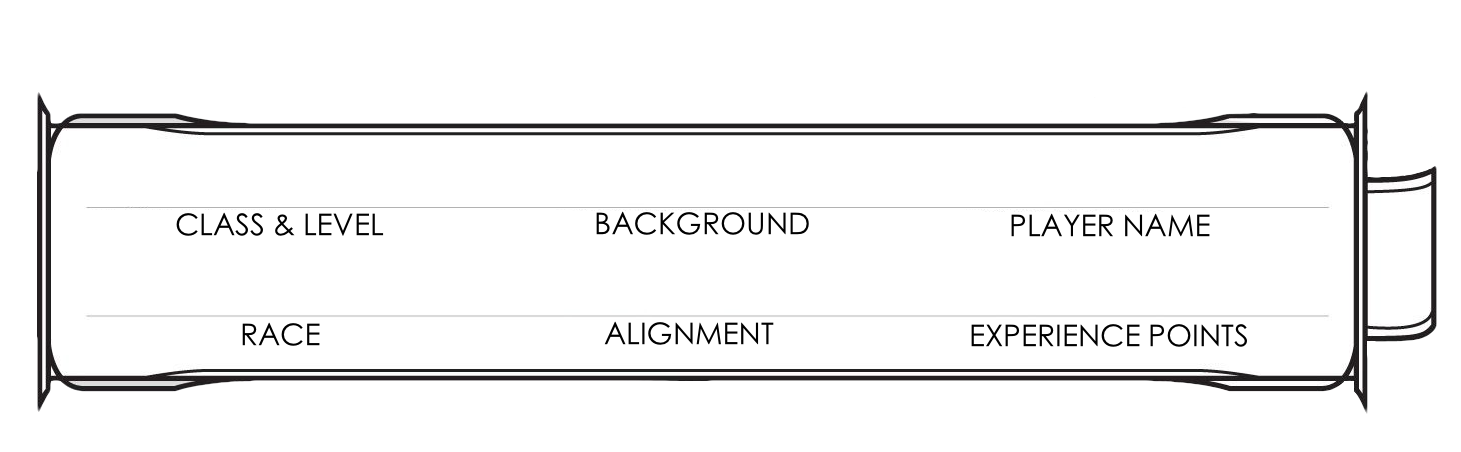
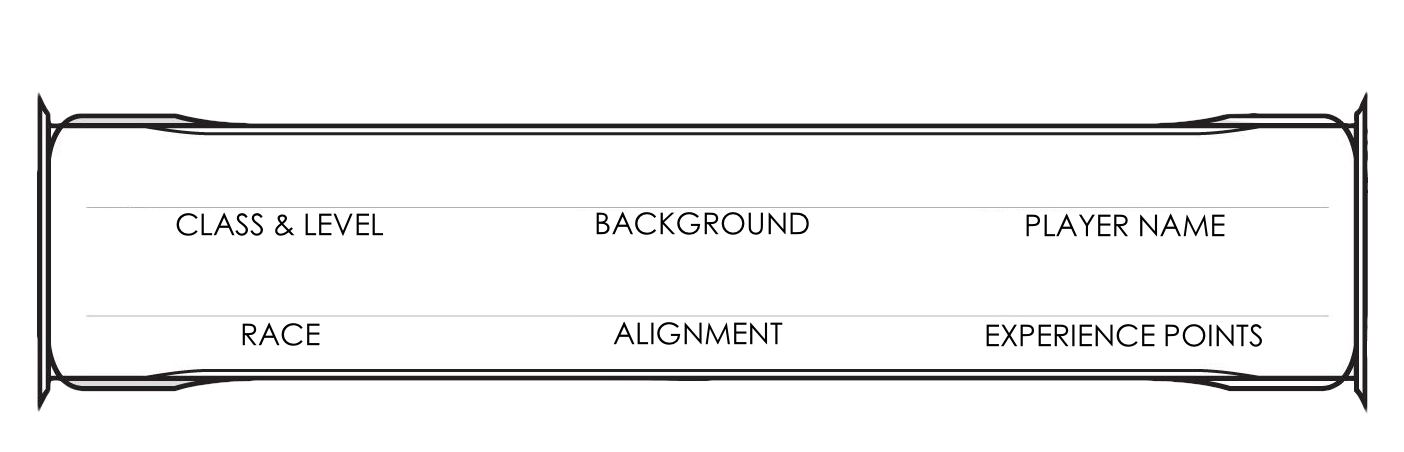
center text in character details sheet

diff --git a/public/css/app.css b/public/css/app.css
@@ -10729,18 +10729,18 @@ section {
   position: relative;
   height: 180px;
   display: inline-block;
-  width: 530px;
+  width: 550px;
   padding-top: 36px;
   z-index: 999;
   font-family: 'Gaegu', cursive;
-  font-size: 1.5vw;
+  font-size: calc(8px + 1vw);
   margin-left: 20px;
   margin-top: 0px;
   text-transform: capitalize;
 }
 
 .up {
-  margin-top: 0px;
+  margin-top: -5px;
 }
 
 .nameBox {

diff --git a/resources/assets/sass/app.scss b/resources/assets/sass/app.scss
@@ -287,17 +287,17 @@ section {
   position: relative;
   height: 180px;
   display: inline-block;
-  width: 530px;
+  width: 550px;
   padding-top: 36px;
   z-index: 999;
   font-family: 'Gaegu', cursive;
-  font-size: 1.5vw;
+  font-size: calc(8px + 1vw);
   margin-left: 20px;
   margin-top: 0px;
   text-transform: capitalize;
 }
 .up {
-  margin-top: 0px;
+  margin-top: -5px;
 }
 
 .nameBox {

diff --git a/resources/views/characters/show.blade.php b/resources/views/characters/show.blade.php
@@ -71,26 +71,26 @@
                     <div class="characterSheetHeadRight">
                         <div class="topRight">
                             <div class="row">
-                                <div class="col-sm-4 col-md-4 text-center">
+                                <div class="col-4 col-sm-4 col-md-4 text-center">
                                     {{$character->class}} - X
                                 </div>
-                                <div class="col-sm-4 col-md-4 text-center">
+                                <div class="col-4 col-sm-4 col-md-4 text-center">
                                     {{$character->background}}
                                 </div>
-                                <div class="col-sm-4 col-md-4 text-center">
+                                <div class="col-4 col-sm-4 col-md-4 text-center">
                                     {{$character->user->name}}
                                 </div>
                             </div>
                             <div class="row up">
-                                <div class="col-sm-4 col-md-4 text-center">
+                                <div class="col-4 col-sm-4 col-md-4 text-center">
                                     {{$character->race}}
                                     
                                 </div>
-                                <div class="col-sm-4 col-md-4 text-center">
+                                <div class="col-4 col-sm-4 col-md-4 text-center">
                                     {{$character->alignment}}
                                    
                                 </div>
-                                <div class="col-sm-4 col-md-4 text-center">
+                                <div class="col-4 col-sm-4 col-md-4 text-center">
                                    X
                                 </div>
                             </div>
